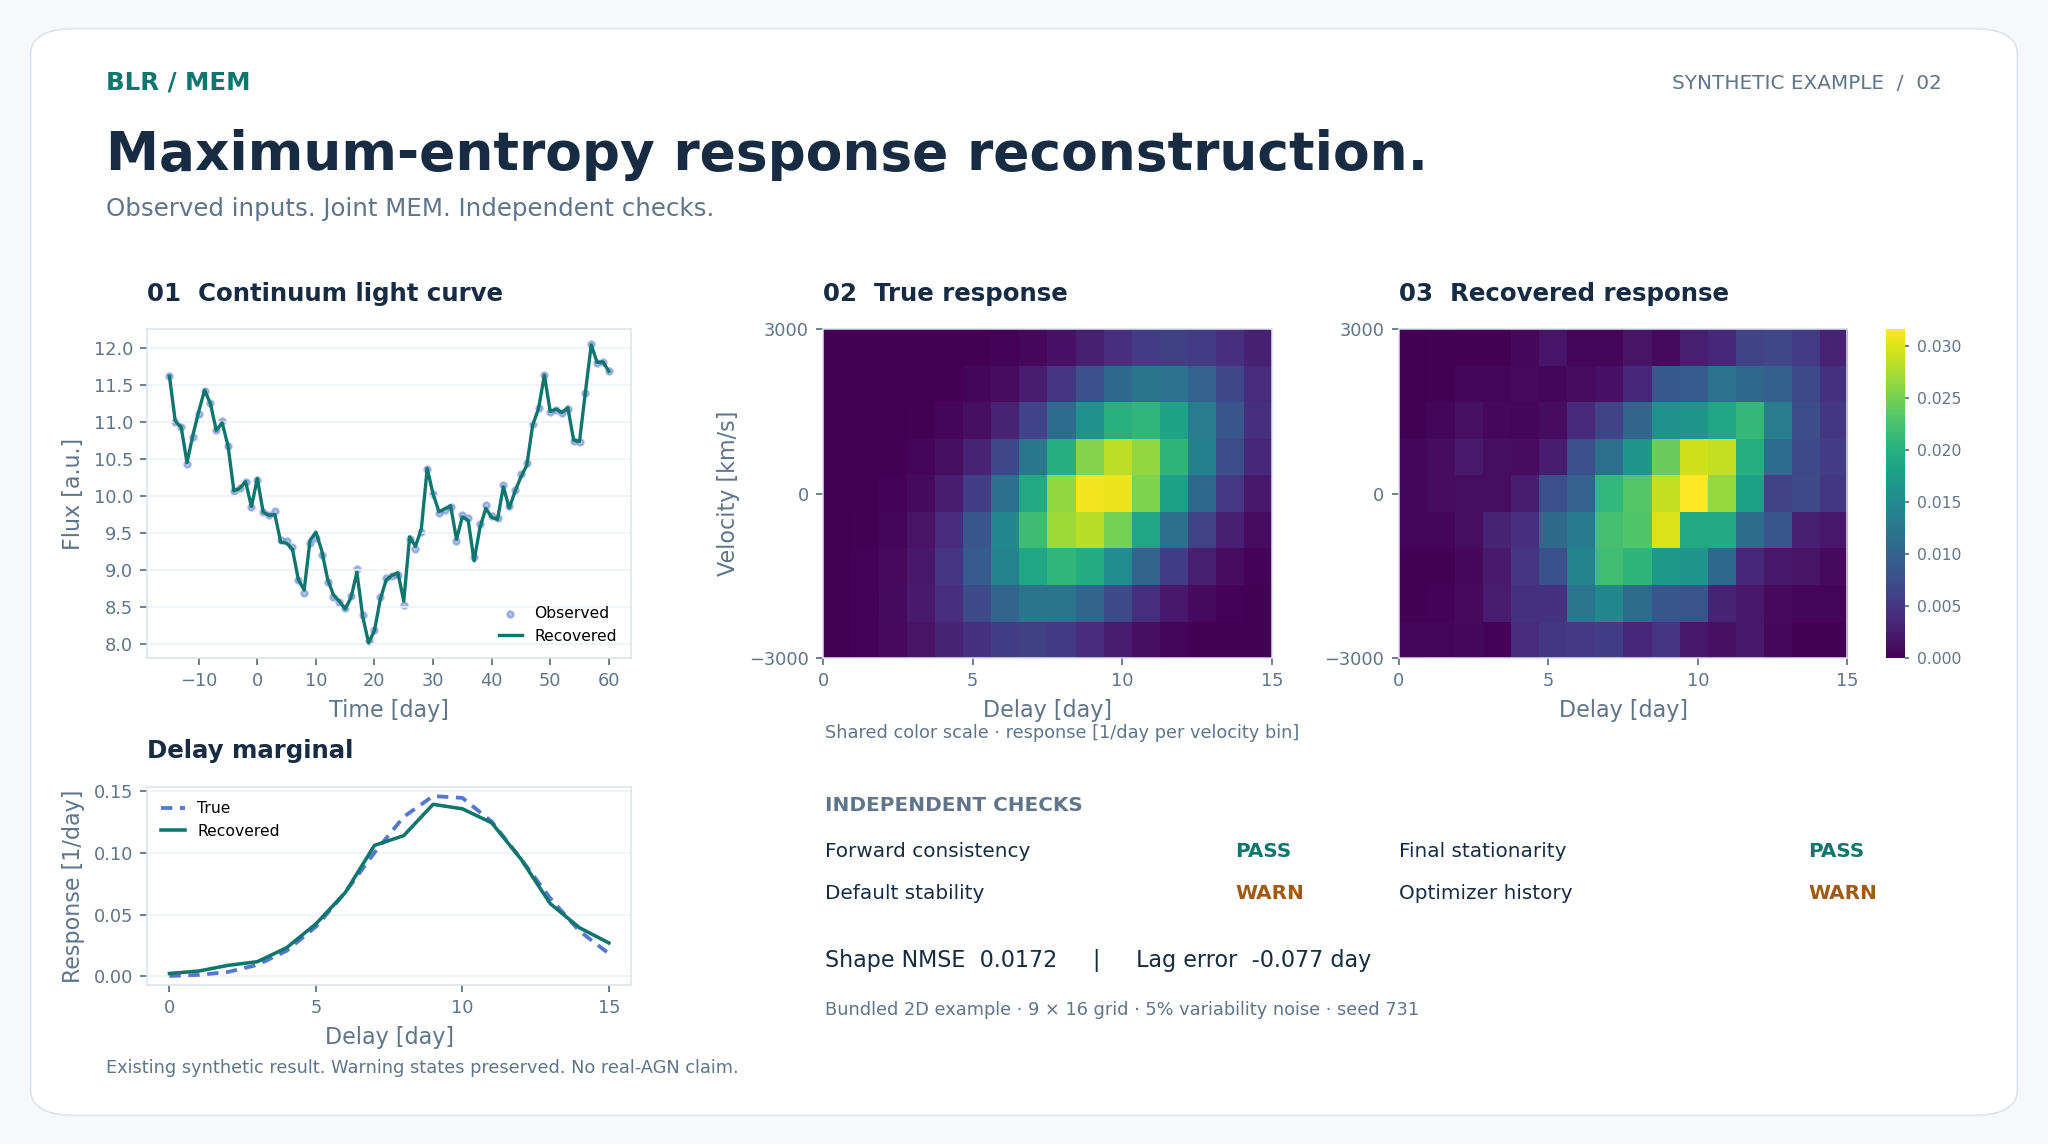
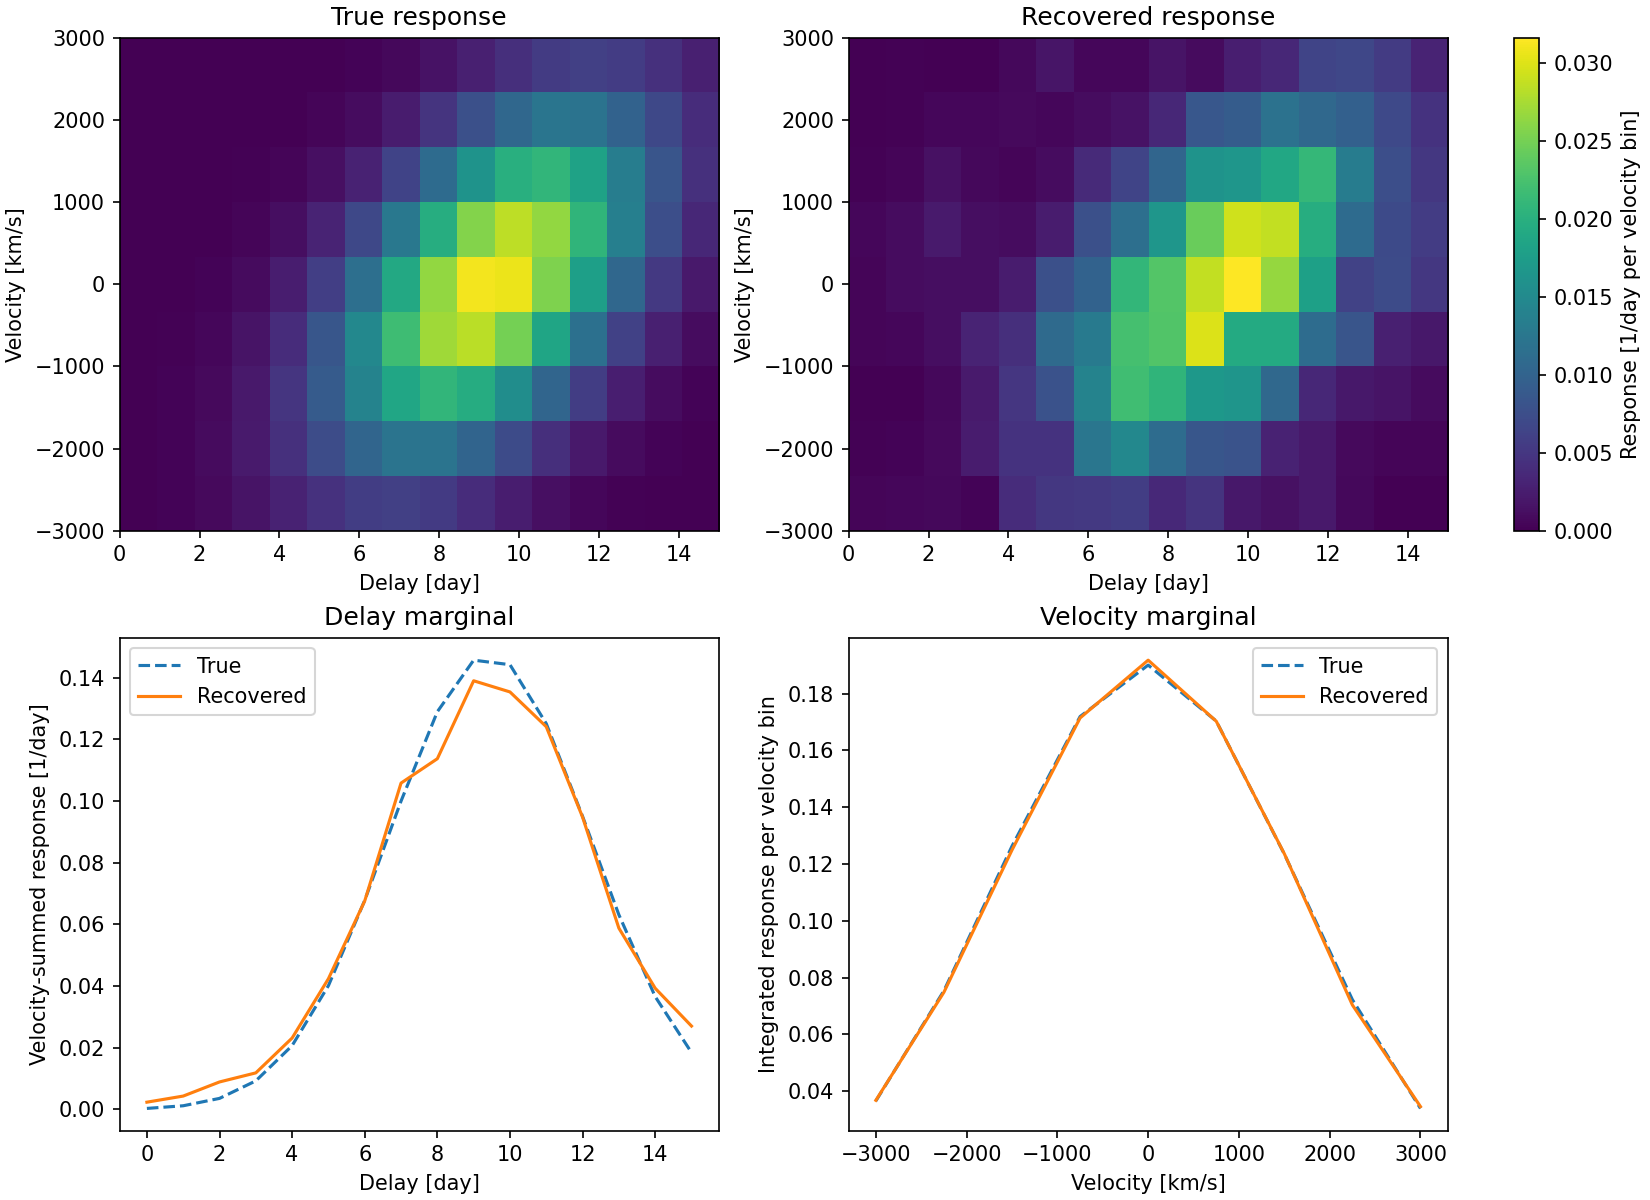
Use the original scientific report figure in both READMEs

diff --git a/tools/render_readme_preview.py b/tools/render_readme_preview.py
@@ -1,17 +1,12 @@
-"""只读现有示例，绘制 README 科学预览；不生成数据或运行求解器。"""
+"""复制程序已有的报告图用于 README；只读示例，不生成数据或重新求解。"""
 
 from __future__ import annotations
 
 import argparse
 import hashlib
 import json
+import shutil
 from pathlib import Path
-
-import matplotlib
-import numpy as np
-from matplotlib.backends.backend_agg import FigureCanvasAgg
-from matplotlib.figure import Figure
-from matplotlib.patches import FancyBboxPatch
 
 
 def render(example: Path, output: Path):
@@ -21,153 +16,32 @@ def render(example: Path, output: Path):
             "data/dataset.json",
             "data/observations.npz",
             "data/truth.npz",
+            "result/result.json",
             "result/solution.npz",
             "report/check.json",
+            "report/response.png",
         )
     }
     before = {name: hashlib.sha256(path.read_bytes()).hexdigest() for name, path in paths.items()}
     dataset = json.loads(paths["data/dataset.json"].read_text(encoding="utf-8"))
+    result = json.loads(paths["result/result.json"].read_text(encoding="utf-8"))
     check = json.loads(paths["report/check.json"].read_text(encoding="utf-8"))
     assert dataset["dimension"] == 2
-    assert dataset["observation_id"] == check["observation_id"]
+    assert dataset["observation_id"] == result["observation_id"] == check["observation_id"]
     for name in ("observations.npz", "truth.npz"):
         assert before[f"data/{name}"] == dataset["files"][name]
-    with np.load(paths["data/observations.npz"], allow_pickle=False) as arrays:
-        observed = dict(arrays)
-    with np.load(paths["data/truth.npz"], allow_pickle=False) as arrays:
-        truth = arrays["psi_true"]
-    with np.load(paths["result/solution.npz"], allow_pickle=False) as arrays:
-        recovered, continuum = arrays["psi"], arrays["continuum"]
+    assert before["result/solution.npz"] == result["files"]["solution.npz"]
+    assert before["data/observations.npz"] == result["input_sha256"]
 
-    ink, muted, teal, blue, amber = "#172B43", "#60748A", "#0F766E", "#5577CD", "#A05A12"
-    with matplotlib.rc_context({"font.family": "DejaVu Sans", "font.size": 10}):
-        fig = Figure(figsize=(12.8, 7.15), dpi=160, facecolor="#F6F8FB")
-        FigureCanvasAgg(fig)
-        fig.add_artist(
-            FancyBboxPatch(
-                (0.015, 0.025),
-                0.97,
-                0.95,
-                boxstyle="round,pad=0,rounding_size=0.022",
-                transform=fig.transFigure,
-                facecolor="white",
-                edgecolor="#DEE5EE",
-                linewidth=0.8,
-                zorder=-1,
-            )
-        )
-        fig.text(0.052, 0.922, "BLR / MEM", color=teal, size=11, weight="bold")
-        fig.text(0.948, 0.922, "SYNTHETIC EXAMPLE  /  02", color=muted, size=9, ha="right")
-        fig.text(0.052, 0.851, "Maximum-entropy response reconstruction.", color=ink, size=24, weight="bold")
-        fig.text(0.052, 0.811, "Observed inputs. Joint MEM. Independent checks.", color=muted, size=11)
-
-        def axes(rect, title):
-            ax = fig.add_axes(rect)
-            ax.set_title(title, loc="left", color=ink, size=11, pad=13, weight="bold")
-            ax.tick_params(colors=muted, labelsize=8, length=3)
-            ax.xaxis.label.set_color(muted)
-            ax.yaxis.label.set_color(muted)
-            for spine in ax.spines.values():
-                spine.set_color("#DAE2EC")
-                spine.set_linewidth(0.7)
-            return ax
-
-        light = axes([0.072, 0.425, 0.236, 0.287], "01  Continuum light curve")
-        light.scatter(observed["t_c"], observed["c_obs"], s=8, color=blue, alpha=0.45, label="Observed")
-        light.plot(observed["t_c"], continuum, color=teal, linewidth=1.5, label="Recovered")
-        light.set(xlabel="Time [day]", ylabel="Flux [a.u.]")
-        light.grid(axis="y", color="#EDF1F6", linewidth=0.7)
-        light.legend(frameon=False, fontsize=7, loc="lower right", handlelength=1.5)
-
-        extent = [
-            observed["delays"][0],
-            observed["delays"][-1],
-            observed["velocities"][0],
-            observed["velocities"][-1],
-        ]
-        v_max = float(max(truth.max(), recovered.max()))
-        true_ax = axes([0.402, 0.425, 0.219, 0.287], "02  True response")
-        fitted_ax = axes([0.683, 0.425, 0.219, 0.287], "03  Recovered response")
-        for ax, values in ((true_ax, truth), (fitted_ax, recovered)):
-            im = ax.imshow(
-                values,
-                origin="lower",
-                aspect="auto",
-                extent=extent,
-                cmap="viridis",
-                vmin=0,
-                vmax=v_max,
-                interpolation="nearest",
-            )
-            ax.set(xlabel="Delay [day]", xticks=[0, 5, 10, 15], yticks=[-3000, 0, 3000])
-        true_ax.set_ylabel("Velocity [km/s]")
-        color_ax = fig.add_axes([0.921, 0.425, 0.009, 0.287])
-        colorbar = fig.colorbar(im, cax=color_ax)
-        colorbar.outline.set_visible(False)
-        colorbar.ax.tick_params(labelsize=7, colors=muted, length=2)
-        fig.text(0.403, 0.355, "Shared color scale · response [1/day per velocity bin]", color=muted, size=8)
-
-        marginal = axes([0.072, 0.139, 0.236, 0.173], "Delay marginal")
-        marginal.plot(
-            observed["delays"],
-            truth.sum(axis=0),
-            color=blue,
-            linewidth=1.7,
-            linestyle=(0, (3, 2)),
-            label="True",
-        )
-        marginal.plot(observed["delays"], recovered.sum(axis=0), color=teal, linewidth=1.6, label="Recovered")
-        marginal.set(xlabel="Delay [day]", ylabel="Response [1/day]")
-        marginal.set_xticks([0, 5, 10, 15])
-        marginal.grid(axis="y", color="#EDF1F6", linewidth=0.7)
-        marginal.legend(frameon=False, fontsize=7, loc="upper left", handlelength=1.5)
-
-        fig.text(0.403, 0.291, "INDEPENDENT CHECKS", color=muted, size=9, weight="bold")
-        states = (
-            (0.403, 0.251, "Forward consistency", check["checks"]["forward_consistency"]),
-            (0.683, 0.251, "Final stationarity", check["checks"]["numerical_convergence"]),
-            (0.403, 0.214, "Default stability", check["checks"]["floating_default_stability"]),
-            (0.683, 0.214, "Optimizer history", "WARN" if check.get("optimizer_history_warning") else "PASS"),
-        )
-        for x, y, label, state in states:
-            fig.text(x, y, label, color=ink, size=9)
-            fig.text(x + 0.20, y, state, color=teal if state == "PASS" else amber, size=9, weight="bold")
-        metrics = check["truth_metrics"]
-        fig.text(
-            0.403,
-            0.155,
-            f"Shape NMSE  {metrics['shape_nmse']:.4f}     |     Lag error  {metrics['lag_centroid_error_days']:+.3f} day",
-            color=ink,
-            size=10,
-        )
-        config = dataset["config"]
-        fig.text(
-            0.403,
-            0.113,
-            f"Bundled 2D example · {truth.shape[0]} × {truth.shape[1]} grid · {config['noise_fraction']:.0%} variability noise · seed {config['seed']}",
-            color=muted,
-            size=8,
-        )
-        fig.text(
-            0.052,
-            0.062,
-            "Existing synthetic result. Warning states preserved. No real-AGN claim.",
-            color=muted,
-            size=8,
-        )
-        output.mkdir(parents=True, exist_ok=True)
-        fig.savefig(
-            output / "overview.png",
-            metadata={
-                "Software": "BLR MEM Workbench / Matplotlib",
-                "Description": "Read-only visualization of the bundled 2D synthetic example; no refitting.",
-            },
-        )
-
+    output.mkdir(parents=True, exist_ok=True)
+    shutil.copyfile(paths["report/response.png"], output / "overview.png")
+    image_hash = hashlib.sha256((output / "overview.png").read_bytes()).hexdigest()
+    assert image_hash == before["report/response.png"]
     assert before == {name: hashlib.sha256(path.read_bytes()).hexdigest() for name, path in paths.items()}
     receipt = {
-        "kind": "readme_illustration_of_existing_synthetic_result",
+        "kind": "readme_copy_of_existing_report_figure",
         "source": "Windows/macOS 0.1.0.dev1 bundle / examples/2D",
+        "source_figure": "report/response.png",
         "observation_id": dataset["observation_id"],
         "source_sha256": before,
         "config": dataset["config"],
@@ -176,9 +50,10 @@ def render(example: Path, output: Path):
         "truth_metrics": check["truth_metrics"],
         "new_generation_or_optimization": False,
         "source_files_unchanged": True,
-        "rendering": "Matplotlib; nearest-neighbor cells; true/recovered maps share vmin=0 and vmax.",
+        "image_is_unmodified_report_output": True,
+        "rendering": "Original Matplotlib four-panel report figure; shared map color scale, delay and velocity marginals.",
         "reproduce": "python tools/render_readme_preview.py --example <extracted-bundle>/examples/2D --out docs/assets",
-        "image_sha256": hashlib.sha256((output / "overview.png").read_bytes()).hexdigest(),
+        "image_sha256": image_hash,
     }
     (output / "preview.json").write_text(
         json.dumps(receipt, ensure_ascii=False, indent=2) + "\n", encoding="utf-8"
@@ -187,10 +62,9 @@ def render(example: Path, output: Path):
         json.dumps(
             {
                 "image": str(output / "overview.png"),
+                "original_report_bytes": "EXACT_MATCH",
                 "original_files": "UNCHANGED",
-                "checks": receipt["checks"],
-            },
-            ensure_ascii=False,
+            }
         )
     )
 

diff --git a/README_ZH.md b/README_ZH.md
@@ -36,10 +36,10 @@
 BLR MEM Workbench 将活动星系核宽线区（broad-line region, BLR）的合成数据生成、最大熵法（maximum entropy method, MEM）反演和结果检查放在同一个本地工作台。Windows、Mac 成品自带运行环境，完整解压即可启动；界面和命令行共用一套计算核心。
 
 <p align="center">
-  <img src="docs/assets/overview.png" width="1100" alt="程序随包二维合成示例：连续谱光变、真实与恢复的速度–时延图、时延边缘响应，以及分别展示的 PASS 和 WARN 检测状态">
+  <img src="docs/assets/overview.png" width="1000" alt="程序原始报告图：上排为真实与恢复的速度–时延图，下排为时延和速度边缘响应">
 </p>
 
-<p align="center"><sub>来自随包的二维合成示例，使用既有结果绘制；9 × 16 网格，5% 变异信号噪声。默认图像稳定性与优化历史警告保留。<a href="docs/assets/preview.json">图像来源与文件哈希</a></sub></p>
+<p align="center"><sub>程序随包二维合成示例的原始报告图。上排共用色标，下排为时延与速度边缘响应；9 × 16 网格，5% 变异信号噪声。<a href="docs/assets/preview.json">图像来源与检测记录</a>。</sub></p>
 
 ## 为什么用它
 

diff --git a/README.md b/README.md
@@ -36,10 +36,10 @@
 BLR MEM Workbench brings synthetic-data generation, joint maximum-entropy inversion and independent checks into one local workflow for broad-line-region reverberation mapping. The Windows and Mac bundles include their runtimes. The graphical interface and command line share the same computation core.
 
 <p align="center">
-  <img src="docs/assets/overview.png" width="1100" alt="An actual bundled 2D synthetic example: observed continuum, true and recovered velocity–delay maps, delay marginals and separate PASS/WARN checks">
+  <img src="docs/assets/overview.png" width="1000" alt="Original program report figure: true and recovered velocity–delay maps above, delay and velocity marginal responses below">
 </p>
 
-<p align="center"><sub>Existing bundled example · 9 × 16 grid · 5% variability noise. Floating-default stability and optimizer-history warnings remain visible. <a href="docs/assets/preview.json">Source identity</a>.</sub></p>
+<p align="center"><sub>Original figure from the bundled 2D synthetic report. The maps share a color scale; lower panels show delay and velocity marginals. 9 × 16 grid, 5% variability noise. <a href="docs/assets/preview.json">Source and checks</a>.</sub></p>
 
 ## Why use it
 
